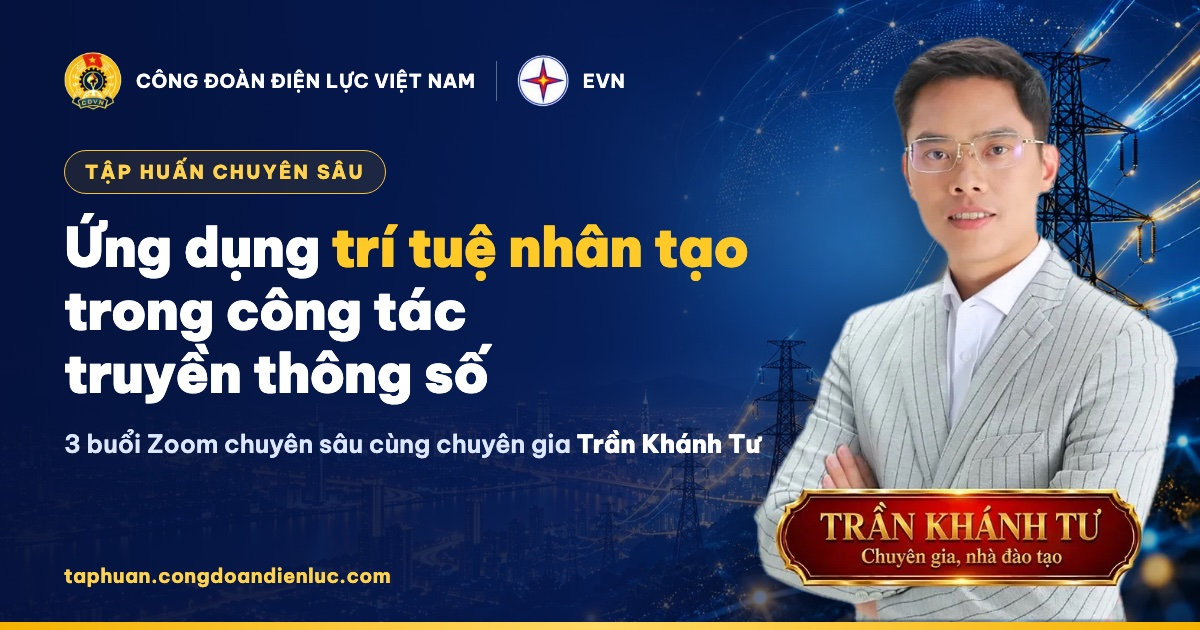
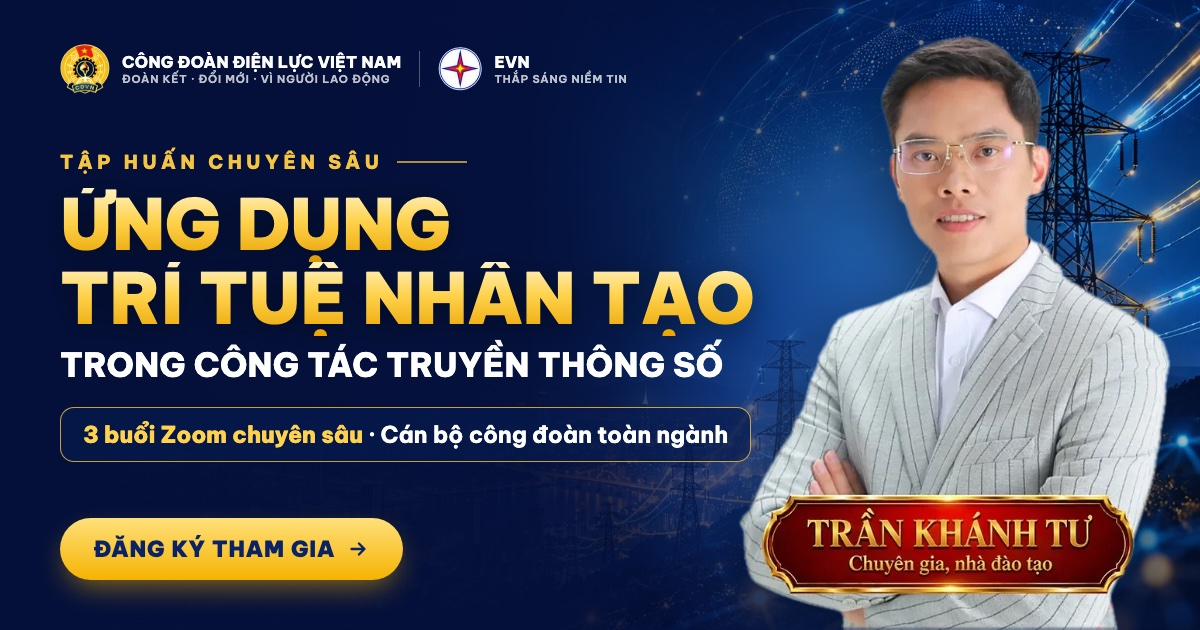
Làm lại ảnh chia sẻ MXH đồng bộ phong cách hero

diff --git a/index.html b/index.html
@@ -14,7 +14,7 @@
 <meta property="og:url" content="https://taphuan.congdoandienluc.com/">
 <meta property="og:title" content="Tập huấn chuyên sâu: Ứng dụng trí tuệ nhân tạo trong công tác truyền thông số">
 <meta property="og:description" content="3 buổi Zoom chuyên sâu cùng chuyên gia Trần Khánh Tư dành cho cán bộ công đoàn, cán bộ làm công tác truyền thông các đơn vị trong Công đoàn Điện lực Việt Nam.">
-<meta property="og:image" content="https://taphuan.congdoandienluc.com/assets/og.jpg">
+<meta property="og:image" content="https://taphuan.congdoandienluc.com/assets/og.jpg?v=ede651c9">
 <meta property="og:image:width" content="1200">
 <meta property="og:image:height" content="630">
 <meta property="og:image:alt" content="Tập huấn chuyên sâu: Ứng dụng trí tuệ nhân tạo trong công tác truyền thông số – Công đoàn Điện lực Việt Nam">
